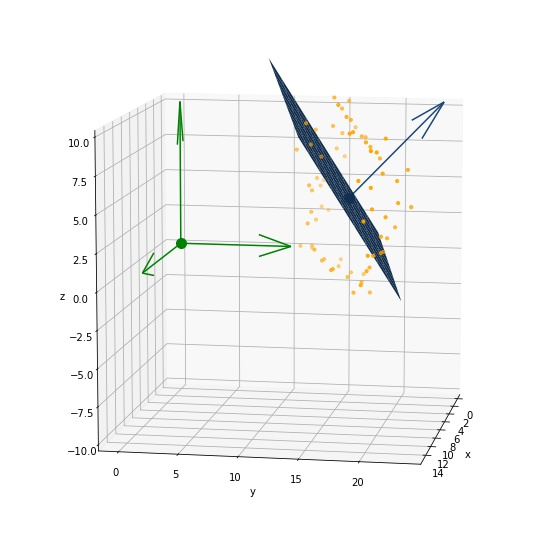
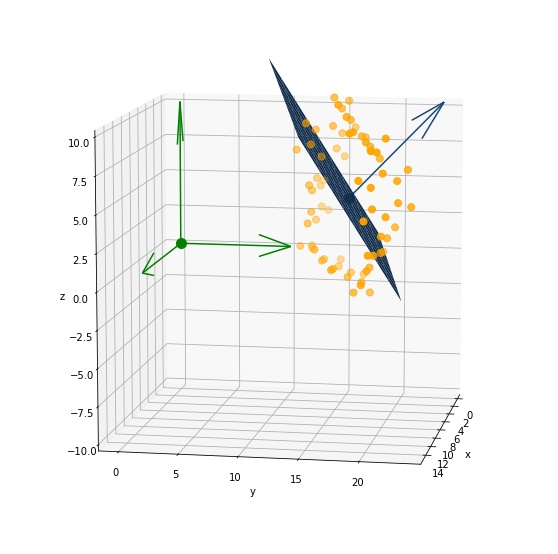
code backup due to pauli cluste failure -currently working on 'plotPlanAndNormal.py' -ISSUE: normal does not appear to be perpendicular to plane

Changed region(s): [[0.5179, 0.1534, 0.7616, 0.5523]]

diff --git a/output_investigation/case_1/molecular_rotor_b3lyp_with_solvent.md/scr_hf_1600/investigate.py b/output_investigation/case_1/molecular_rotor_b3lyp_with_solvent.md/scr_hf_1600/investigate.py
@@ -16,28 +16,28 @@ import config
 test_file_path='/home/vanka/ruchi/molecular_motor/case_1/molecular_rotor_b3lyp_with_solvent.md/scr_hf_1600/coors.xyz'
 init.initConfig(test_file_path,ring_atom_no=69,track_atom_no=82)
 
+#test_file_path='/home/vanka/siddharth/molecular_machine_project/molecular_machine/verification/test_systems/ring_two_frames_non_ideal_artificial_system.xyz'
+#init.initConfig(test_file_path,ring_atom_no=0,track_atom_no=30)
 ####################################################################3
 def visualizeShiftOrigin(input_file_path,frame1_no,frame2_no,method='old',part='ring'):
   '''
   Visualize shift_origin Transformations
-  Extract two frames 
   '''
-  output_file_path=f'test_file_{frame1_no}_{frame2_no}.xyz'
-
+  print(f'-->{method.upper()}')
   with open(input_file_path,'r') as file:
     init_frame1_cords=io.readFileMd(file,frame1_no,frame_no_pos=config.frame_no_pos)
     init_frame2_cords=io.readFileMd(file,frame2_no,frame_no_pos=config.frame_no_pos)
 
   if method=='old':
-    init_axis,init_origin=shift_origin.getAxisAndOriginOld(init_frame1_cords,init_frame2_cords,process='rotation',axis=None,origin=None,debug=True,method='old')
+    init_axis,init_origin=shift_origin.getAxisAndOriginOld(init_frame1_cords,init_frame2_cords,process='rotation',axis=None,origin=None,debug=True)
   elif method=='new':
-    init_axis,init_origin=shift_origin.getAxisAndOriginNew(init_frame1_cords,init_frame2_cords,process='rotation',axis=None,origin=None,debug=True,method='new')
+    init_axis,init_origin=shift_origin.getAxisAndOriginNew(init_frame1_cords,init_frame2_cords,process='rotation',axis=None,origin=None,debug=True)
   print(init_axis,init_origin)
 
   plot(init_frame1_cords,init_axis,init_origin,part=part,output_file_name=f'init_frame1_cords_{method}.jpg')
   plot(init_frame2_cords,init_axis,init_origin,part=part,output_file_name=f'init_frame2_cords_{method}.jpg')
 
-  transformed_frame1_cords,transformed_frame2_cords=shift_origin.shiftOrigin(init_frame1_cords,init_frame2_cords,process='rotation',debug=True)
+  transformed_frame1_cords,transformed_frame2_cords=shift_origin.shiftOrigin(init_frame1_cords,init_frame2_cords,process='rotation',debug=True,method=method)
   
   transformed_axis=transformed_frame1_cords.iloc[-1][['x','y','z']].values
   transformed_origin=transformed_frame1_cords.iloc[-2][['x','y','z']].values
@@ -47,10 +47,7 @@ def visualizeShiftOrigin(input_file_path,frame1_no,frame2_no,method='old',part='
   plot(transformed_frame1_cords,transformed_axis,transformed_origin,part=part,output_file_name=f'transformed_frame1_cords_{method}.jpg')
   plot(transformed_frame2_cords,transformed_axis,transformed_origin,part=part,output_file_name=f'transformed_frame2_cords_{method}.jpg')
 
-  with open(output_file_path,'w') as output_file:
-    io.writeFileMd(output_file,transformed_frame1_cords,frame1_no,frame_no_pos=config.frame_no_pos)
-    io.writeFileMd(output_file,transformed_frame2_cords,frame2_no,frame_no_pos=config.frame_no_pos) 
- 
+
 def plot(cords,axis,origin,part='whole',output_file_name='test.jpg'):
   if part=='ring':
     cords=cords[cords['atom_no'].isin(config.ring_atom_no_list)]
@@ -61,7 +58,7 @@ def plot(cords,axis,origin,part='whole',output_file_name='test.jpg'):
 
   fig = plt.figure(figsize=(10,10),dpi=72)
   ax = fig.add_subplot(111, projection='3d')
-  ax.scatter(cords['x'],cords['y'],cords['z'],s=10,color='orange')
+  ax.scatter(cords['x'],cords['y'],cords['z'],s=50,color='orange')
 
   d = -vector.getDotProduct(origin,axis)
   print(f'd = {d}')
@@ -112,6 +109,7 @@ def regression(input_file_path,frame1_no):
     z.append(_Y)
 
   z=np.array(z)
+  print(xx,yy,z)
   fig = plt.figure(figsize=(10,10),dpi=72)
   ax = fig.add_subplot(111, projection='3d') 
   ax.scatter(frame1_cords['x'],frame1_cords['y'],frame1_cords['z'],color='orange',s=50)
@@ -123,6 +121,82 @@ def regression(input_file_path,frame1_no):
   ax.set_ylabel('y')
   ax.set_zlabel('z')
   plt.show()
+
+def regression2(input_file_path,frame1_no):
+  with open(input_file_path,'r') as file:
+    frame1_cords=io.readFileMd(file,frame1_no,frame_no_pos=config.frame_no_pos)
+  cog1=physics.getCog(frame1_cords,atom_list=config.ring_atom_no_list)
+  #frame1_cords=shift_origin._shiftOrigin(frame1_cords,cog1)
+  frame1_cords=frame1_cords[frame1_cords['atom_no'].isin(config.ring_atom_no_list)]
+  
+  X=frame1_cords[['x','y','z']].values
+  Y=frame1_cords[['x','y','z']].apply(lambda row:np.sqrt(row['x']**2+row['y']**2+row['z']**2),axis=1).values
+  reg = LinearRegression().fit(X, Y)
+  print(reg.coef_,reg.intercept_)
+  
+  value_range=range(-5,5)
+  [xx,yy]=np.meshgrid(range(int(cog1[0])-5,int(cog1[0])+5),range(int(cog1[1])-5,int(cog1[1])+5))
+
+  axis,origin=reg.coef_,cog1
+  d = -vector.getDotProduct(cog1,axis)
+  print(f'd = {d}')
+  [xx,yy]=np.meshgrid(range(int(origin[0])-5,int(origin[0])+5),range(int(origin[1])-5,int(origin[1])+5))
+  z=(-axis[0]*xx - axis[1]*yy - d)/float(axis[2])
+  i=np.random.randint(0,10,size=2)
+  print(i)
+  print(f'This should be zero = {axis[0]*xx[i[0]][i[1]]+axis[1]*yy[i[0]][i[1]]+axis[2]*z[i[0]][i[1]]+d}')
+
+  print(xx,yy,z)
+  fig = plt.figure(figsize=(10,10),dpi=72)
+  ax = fig.add_subplot(111, projection='3d')
+  ax.scatter(frame1_cords['x'],frame1_cords['y'],frame1_cords['z'],color='orange',s=50)
+  color='#1C4675'
+  ax.plot_surface(xx,yy,z,color=color)
+  ax.scatter([cog1[0]],[cog1[1]],[cog1[2]],s=100,color=color)
+  ax.quiver([cog1[0]],[cog1[1]],[cog1[2]],[reg.coef_[0]],[reg.coef_[1]],[reg.coef_[2]],length=5,color=color)
+  ax.set_xlabel('x')
+  ax.set_ylabel('y')
+  ax.set_zlabel('z')
+  plt.show()
+  
+def regression3(input_file_path,frame1_no):
+  with open(input_file_path,'r') as file:
+    frame1_cords=io.readFileMd(file,frame1_no,frame_no_pos=config.frame_no_pos)
+  cog1=physics.getCog(frame1_cords,atom_list=config.ring_atom_no_list)
+  #frame1_cords=shift_origin._shiftOrigin(frame1_cords,cog1)
+  frame1_cords=frame1_cords[frame1_cords['atom_no'].isin(config.ring_atom_no_list)]
+
+
+  total_atoms=frame1_cords.shape[0] 
+  v1=np.array([frame1_cords.iloc[:total_atoms//2]['x'].mean(),frame1_cords.iloc[:total_atoms//2]['y'].mean(),frame1_cords.iloc[:total_atoms//2]['z'].mean()])
+  v2=np.array([frame1_cords.iloc[-total_atoms//2:]['x'].mean(),frame1_cords.iloc[-total_atoms//2:]['y'].mean(),frame1_cords.iloc[-total_atoms//2:]['z'].mean()])
+  
+  value_range=range(-5,5)
+  [xx,yy]=np.meshgrid(range(int(cog1[0])-5,int(cog1[0])+5),range(int(cog1[1])-5,int(cog1[1])+5))
+  cog1=[0,0,0]
+  axis,origin=vector.getCrossProduct(v1,v2),cog1
+  print(axis)
+  d = -vector.getDotProduct(cog1,axis)
+  print(f'd = {d}')
+  [xx,yy]=np.meshgrid(range(int(origin[0])-5,int(origin[0])+5),range(int(origin[1])-5,int(origin[1])+5))
+  z=(-axis[0]*xx - axis[1]*yy - d)/float(axis[2])
+  i=np.random.randint(0,10,size=2)
+  print(i)
+  print(f'This should be zero = {axis[0]*xx[i[0]][i[1]]+axis[1]*yy[i[0]][i[1]]+axis[2]*z[i[0]][i[1]]+d}')
+
+  print(xx,yy,z)
+  fig = plt.figure(figsize=(10,10),dpi=72)
+  ax = fig.add_subplot(111, projection='3d')
+  ax.scatter(frame1_cords['x'],frame1_cords['y'],frame1_cords['z'],color='orange',s=50)
+  color='#1C4675'
+  ax.plot_surface(xx,yy,z,color=color)
+  ax.scatter([cog1[0]],[cog1[1]],[cog1[2]],s=100,color=color)
+  ax.quiver([cog1[0]],[cog1[1]],[cog1[2]],[axis[0]],[axis[1]],[axis[2]],length=5,color=color,normalize=True)
+  ax.set_xlabel('x')
+  ax.set_ylabel('y')
+  ax.set_zlabel('z')
+  plt.show()
+
 
 
 def calculateAxisDifference(input_file_path,start_frame_no,end_frame_no):
@@ -200,12 +274,11 @@ def visualizeDifference(input_file_path,frame1_no,frame2_no,part='whole'):
   plt.show()
  
 ###############################################
-
-frame1_no=18255#np.random.randint(0,55230)
+frame1_no=41153#np.random.randint(0,55230)
 frame2_no=frame1_no+10
 print(f'FRAME1 NO = {frame1_no}')
-regression(test_file_path,frame1_no)
-visualizeShiftOrigin(test_file_path,frame1_no,frame2_no,method='old',part='ring')
+regression3(test_file_path,frame1_no)
+#visualizeShiftOrigin(test_file_path,frame1_no,frame2_no,method='new',part='ring')
 #visualizeDifference(test_file_path,frame1_no,frame2_no,part='ring')
 ################################################
 #calculateAxisDifference(test_file_path,0,86054)

diff --git a/output_investigation/case_1/molecular_rotor_b3lyp_with_solvent.md/scr_hf_1600/plotPlaneAndNormal.py b/output_investigation/case_1/molecular_rotor_b3lyp_with_solvent.md/scr_hf_1600/plotPlaneAndNormal.py
@@ -1,0 +1,30 @@
+import numpy as np
+import matplotlib.pyplot as plt
+from mpl_toolkits.mplot3d import Axes3D
+
+point  = np.array([10, 0, 0])
+normal=np.array([1,0,0.2])
+#normal = np.array([-0.89214967,  0.34347699,  0.29341528])
+#print(normal)
+# a plane is a*x+b*y+c*z+d=0
+# [a,b,c] is the normal. Thus, we have to calculate
+# d and we're set
+normal = normal/np.linalg.norm(normal)
+d = -point.dot(normal)
+
+# create x,y
+xx, yy = np.meshgrid(range(-10,10), range(-10,10))
+
+# calculate corresponding z
+z = (-normal[0] * xx - normal[1] * yy - d) * 1. /normal[2]
+print(z)
+# plot the surface
+plt3d = plt.figure().gca(projection='3d')
+plt3d.plot_surface(xx, yy, z)
+plt3d.quiver([point[0]],[point[1]],[point[2]],\
+[normal[0]],[normal[1]],[normal[2]],length=10,\
+normalize=True)
+plt.xlabel('x')
+plt.ylabel('y')
+plt.show()
+
